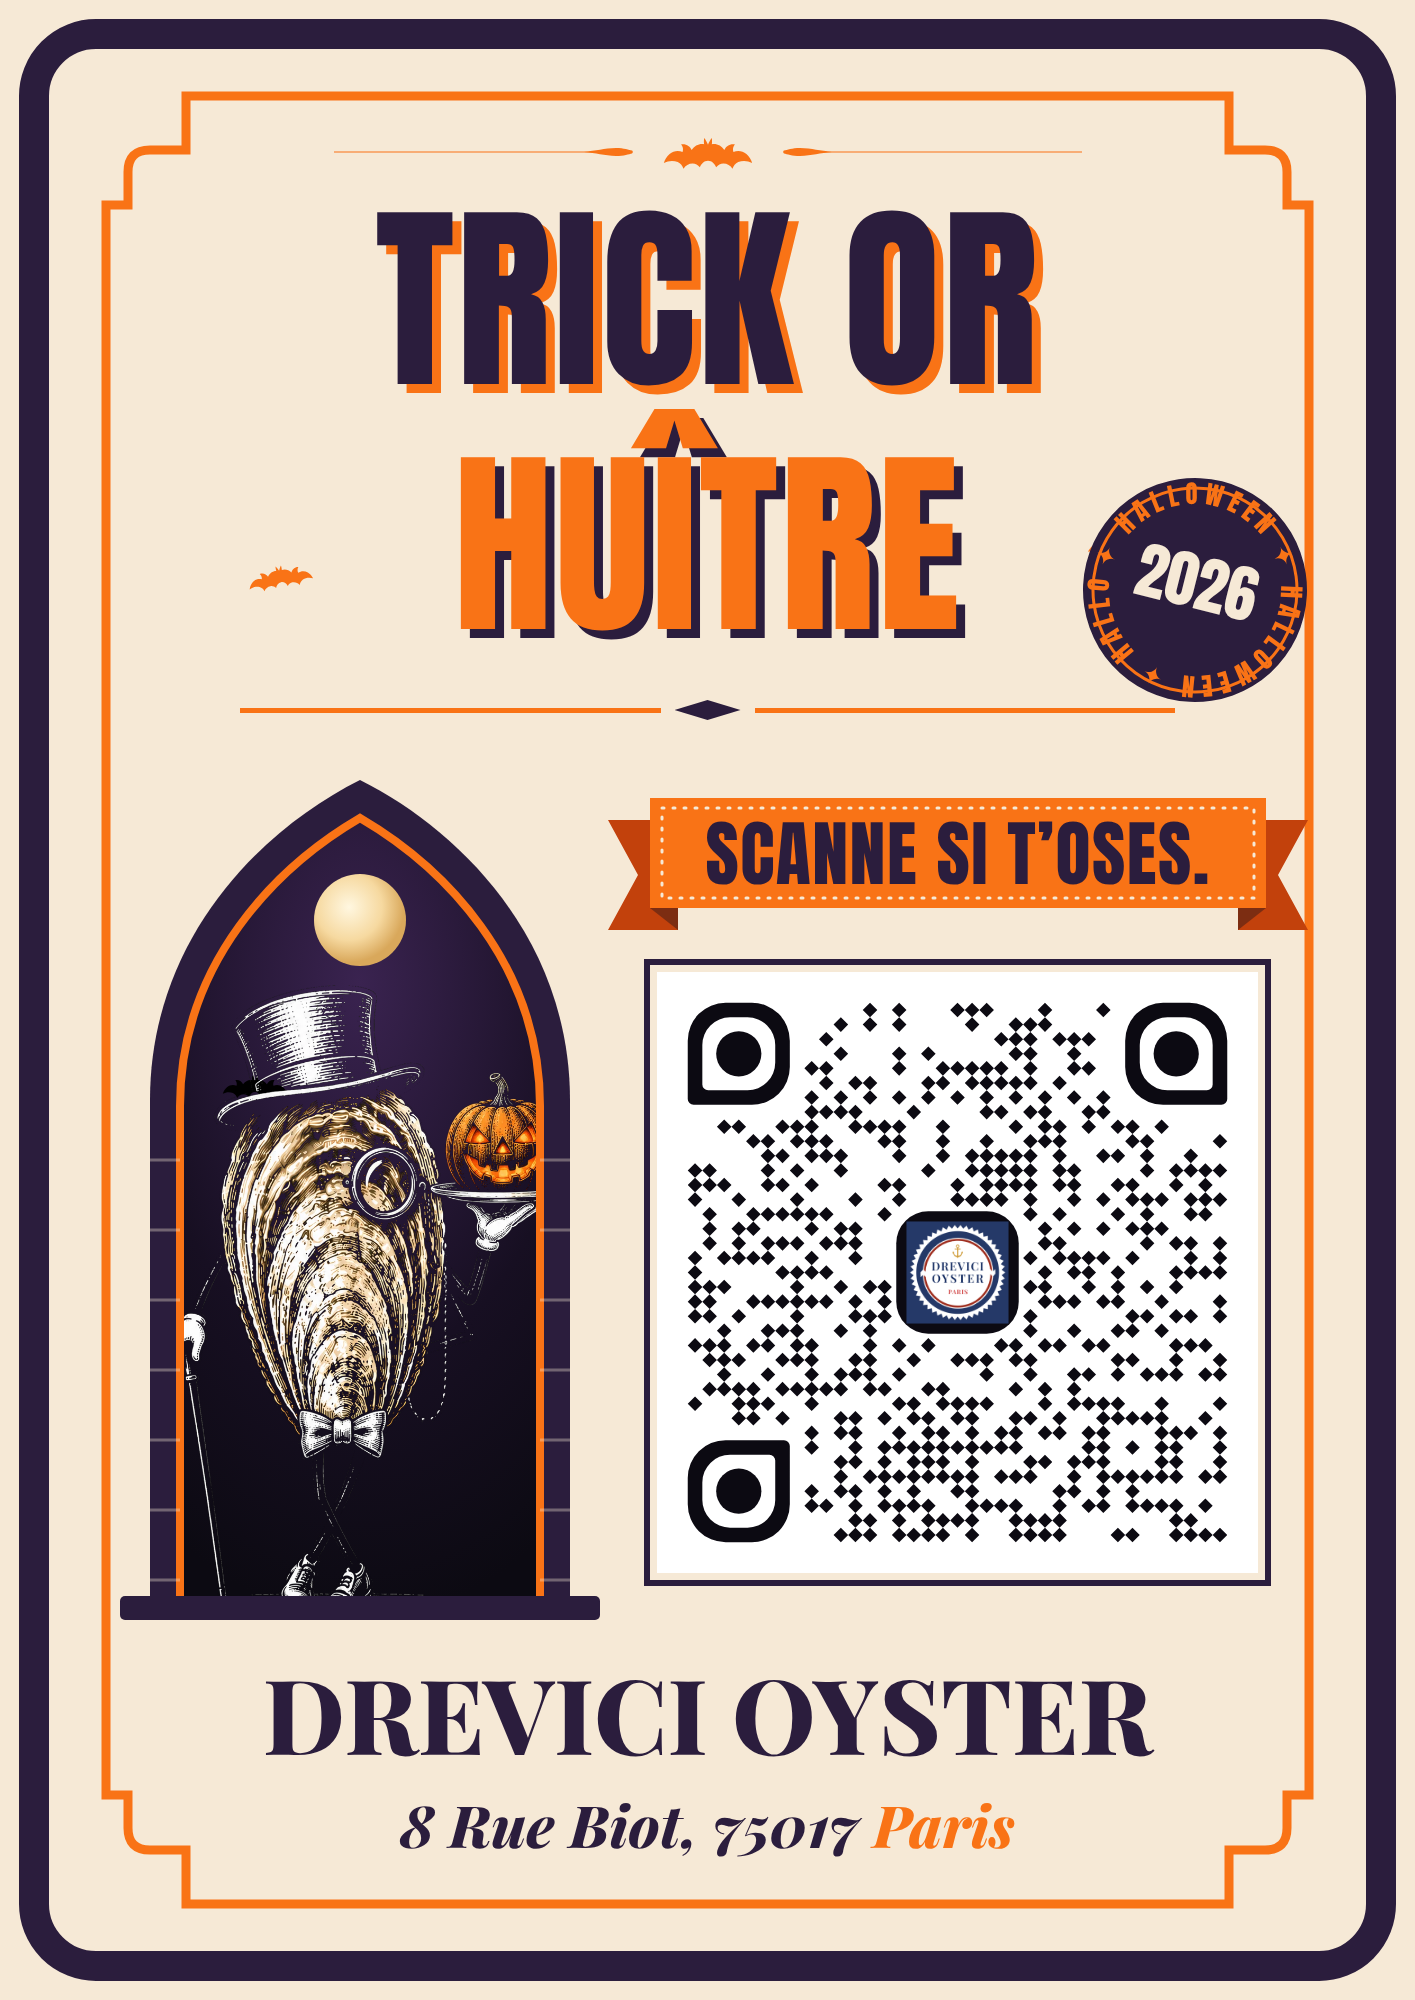
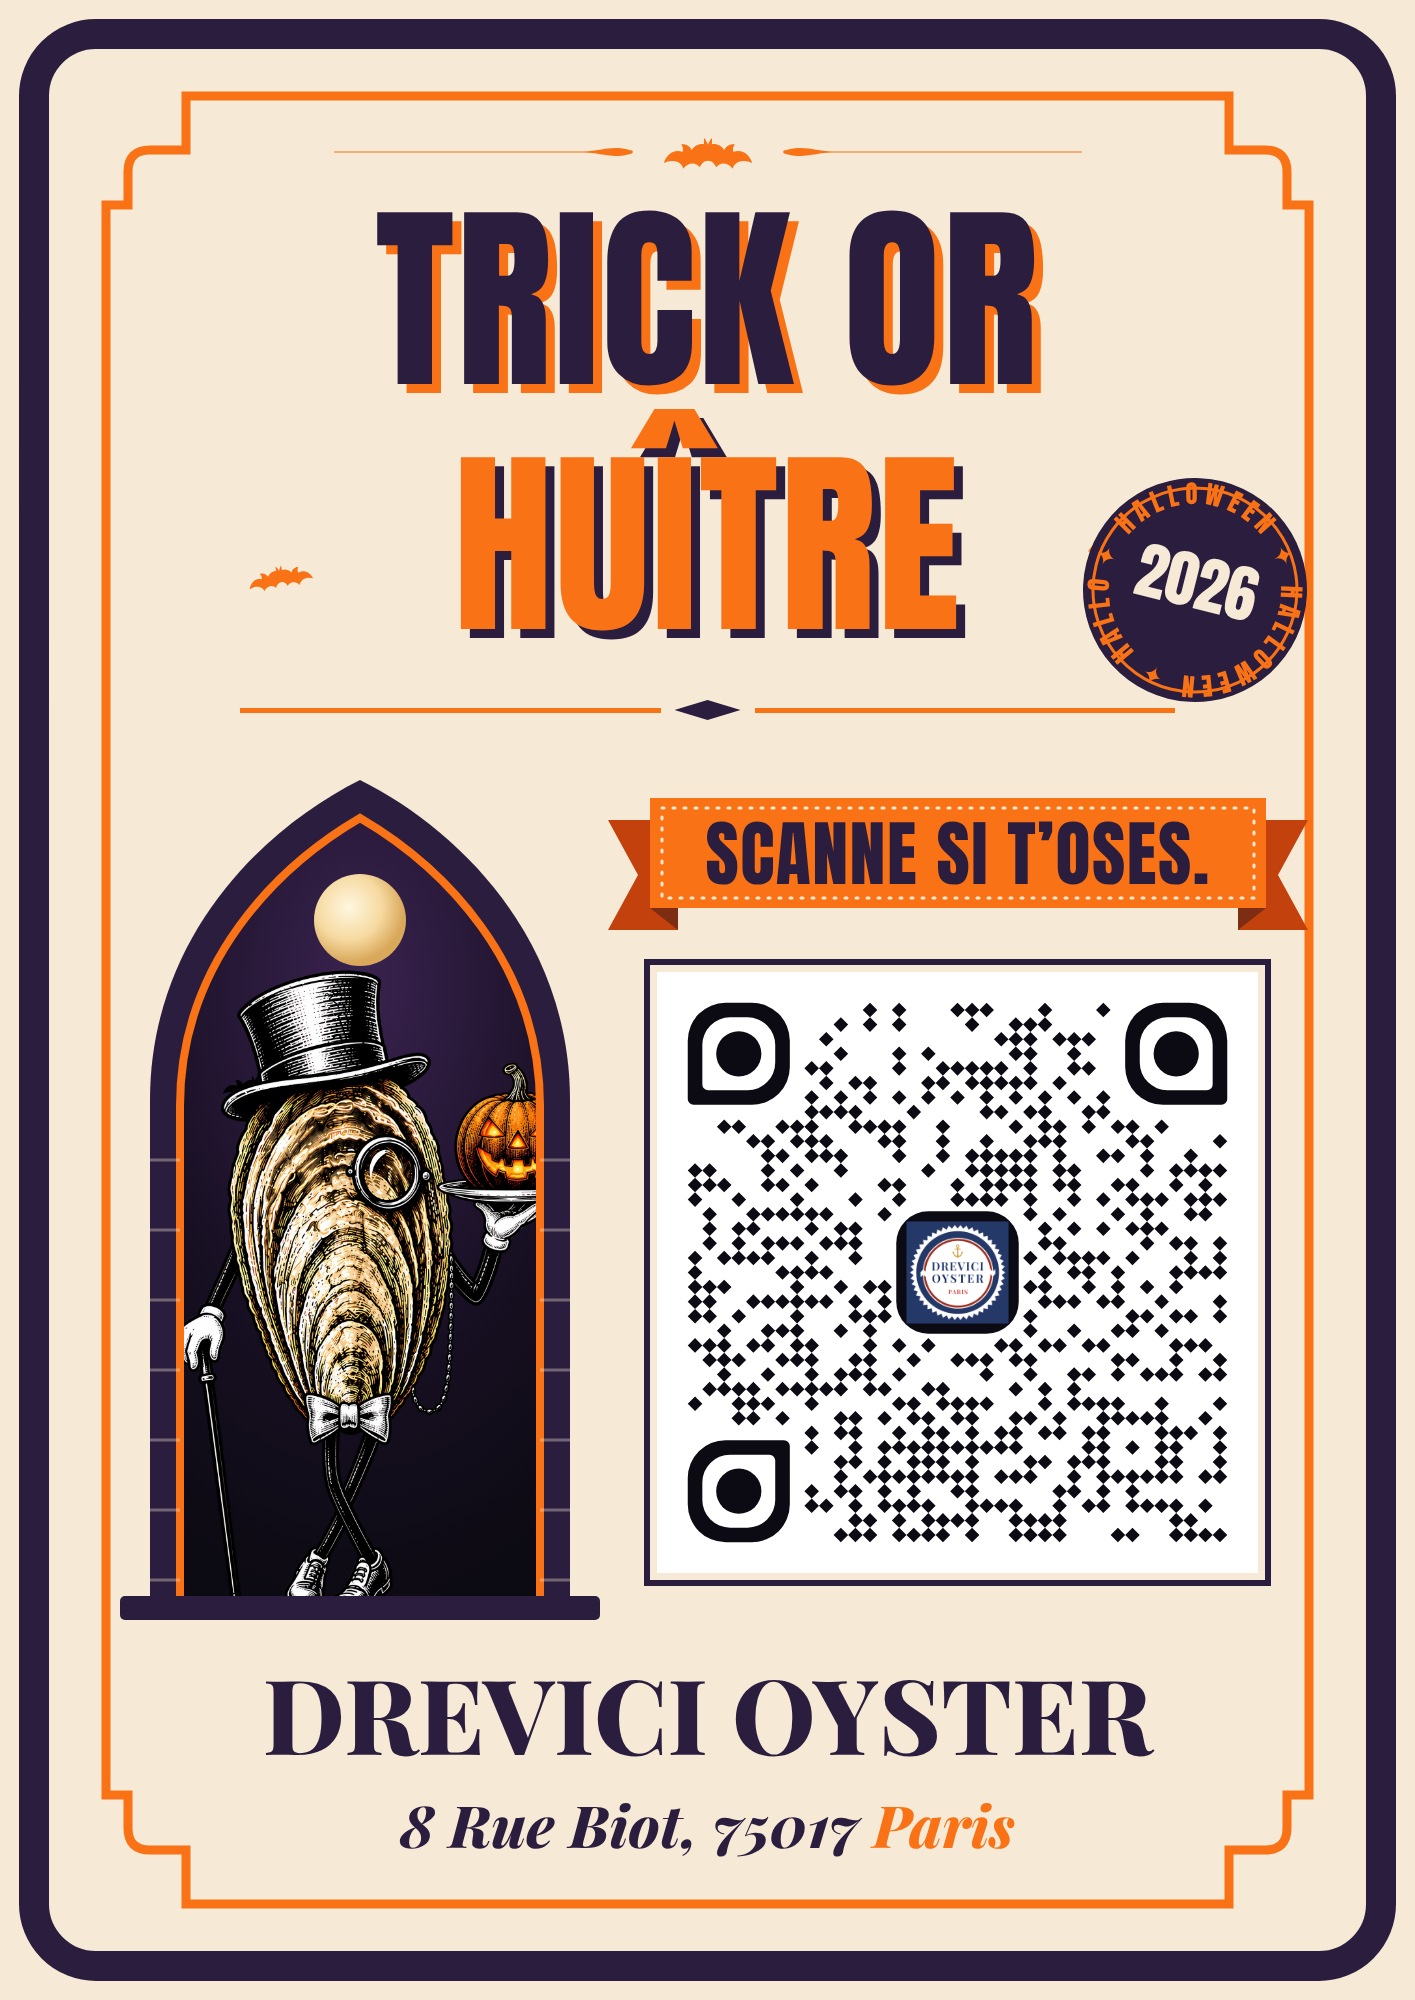
Affiche porte : mascotte HD (fond transparent)
Claude-Session: https://claude.ai/code/session_012ueJSkHMqbZpvX7x5D3Dw2

Changed region(s): [[0.1244, 0.465, 0.4042, 0.806]]

diff --git a/affiches/halloween-2026/affiche-porte-hal-seuil.html b/affiches/halloween-2026/affiche-porte-hal-seuil.html
@@ -25,7 +25,7 @@ h1.l2{top:445px;color:#f97316;text-shadow:9px 9px 0 #2b1d3d}
 <radialGradient id="lune" cx="38%" cy="36%" r="60%"><stop offset="0" stop-color="#fff7e0"/><stop offset=".6" stop-color="#f6d9a0"/><stop offset="1" stop-color="#d9a85b"/></radialGradient></defs>
 <clipPath id="cp"><path d="M70 826V336C70 192 168 96 250 48C332 96 430 192 430 336V826Z"/></clipPath>
 <path d="M40 826V330C40 170 150 60 250 10C350 60 460 170 460 330V826Z" fill="#2b1d3d"/>
-<g clip-path="url(#cp)"><rect width="500" height="850" fill="url(#nuit)"/><circle cx="250" cy="150" r="46" fill="url(#lune)"/><path fill="#000" d="M100 30c-4-10-8-14-8-14s-1 8 0 13c-10-2-20 3-26 12-3-8-12-14-22-12 4 5 5 11 3 16-8-4-19-3-27 4-6 5-10 12-12 19 9-5 20-6 29-2 6 3 10 8 12 14 4-7 11-11 19-11 6 0 11 3 15 8 3-8 9-14 17-14s14 6 17 14c4-5 9-8 15-8 8 0 15 4 19 11 2-6 6-11 12-14 9-4 20-3 29 2-2-7-6-14-12-19-8-7-19-8-27-4-2-5-1-11 3-16-10-2-19 4-22 12-6-9-16-14-26-12 1-5 0-13 0-13s-4 4-8 14z" transform="translate(110 300) scale(.35)"/><image href="mascotte.webp" x="40" y="185" width="440" height="635" preserveAspectRatio="xMidYMax meet"/></g>
+<g clip-path="url(#cp)"><rect width="500" height="850" fill="url(#nuit)"/><circle cx="250" cy="150" r="46" fill="url(#lune)"/><path fill="#000" d="M100 30c-4-10-8-14-8-14s-1 8 0 13c-10-2-20 3-26 12-3-8-12-14-22-12 4 5 5 11 3 16-8-4-19-3-27 4-6 5-10 12-12 19 9-5 20-6 29-2 6 3 10 8 12 14 4-7 11-11 19-11 6 0 11 3 15 8 3-8 9-14 17-14s14 6 17 14c4-5 9-8 15-8 8 0 15 4 19 11 2-6 6-11 12-14 9-4 20-3 29 2-2-7-6-14-12-19-8-7-19-8-27-4-2-5-1-11 3-16-10-2-19 4-22 12-6-9-16-14-26-12 1-5 0-13 0-13s-4 4-8 14z" transform="translate(110 300) scale(.35)"/><image href="mascotte.webp" x="18" y="155" width="470" height="665" preserveAspectRatio="xMidYMax meet"/></g>
 <path d="M70 826V336C70 192 168 96 250 48C332 96 430 192 430 336V826" fill="none" stroke="#f97316" stroke-width="8" stroke-linecap="square"/>
 <g stroke="#f6e9d6" stroke-width="3" opacity=".35"><path d="M40 390H70M430 390H460"/><path d="M40 460H70M430 460H460"/><path d="M40 530H70M430 530H460"/><path d="M40 600H70M430 600H460"/><path d="M40 670H70M430 670H460"/><path d="M40 740H70M430 740H460"/><path d="M40 810H70M430 810H460"/></g>
 <rect x="10" y="796" width="480" height="54" rx="5" fill="#2b1d3d"/><text x="250" y="824.0" text-anchor="middle" dominant-baseline="central" font-family="Anton, Impact, sans-serif" font-size="38" letter-spacing="8" fill="#f97316">HALLOWEEN 2026</text></svg>

diff --git a/affiches/halloween-2026/affiche-creme-porte.html b/affiches/halloween-2026/affiche-creme-porte.html
@@ -25,7 +25,7 @@ h1.l2{top:445px;color:#f97316;text-shadow:9px 9px 0 #2b1d3d}
 <radialGradient id="lune" cx="38%" cy="36%" r="60%"><stop offset="0" stop-color="#fff7e0"/><stop offset=".6" stop-color="#f6d9a0"/><stop offset="1" stop-color="#d9a85b"/></radialGradient></defs>
 <clipPath id="cp"><path d="M70 826V336C70 192 168 96 250 48C332 96 430 192 430 336V826Z"/></clipPath>
 <path d="M40 826V330C40 170 150 60 250 10C350 60 460 170 460 330V826Z" fill="#2b1d3d"/>
-<g clip-path="url(#cp)"><rect width="500" height="850" fill="url(#nuit)"/><circle cx="250" cy="150" r="46" fill="url(#lune)"/><path fill="#000" d="M100 30c-4-10-8-14-8-14s-1 8 0 13c-10-2-20 3-26 12-3-8-12-14-22-12 4 5 5 11 3 16-8-4-19-3-27 4-6 5-10 12-12 19 9-5 20-6 29-2 6 3 10 8 12 14 4-7 11-11 19-11 6 0 11 3 15 8 3-8 9-14 17-14s14 6 17 14c4-5 9-8 15-8 8 0 15 4 19 11 2-6 6-11 12-14 9-4 20-3 29 2-2-7-6-14-12-19-8-7-19-8-27-4-2-5-1-11 3-16-10-2-19 4-22 12-6-9-16-14-26-12 1-5 0-13 0-13s-4 4-8 14z" transform="translate(110 300) scale(.35)"/><image href="mascotte.webp" x="40" y="215" width="440" height="635" preserveAspectRatio="xMidYMax meet"/></g>
+<g clip-path="url(#cp)"><rect width="500" height="850" fill="url(#nuit)"/><circle cx="250" cy="150" r="46" fill="url(#lune)"/><path fill="#000" d="M100 30c-4-10-8-14-8-14s-1 8 0 13c-10-2-20 3-26 12-3-8-12-14-22-12 4 5 5 11 3 16-8-4-19-3-27 4-6 5-10 12-12 19 9-5 20-6 29-2 6 3 10 8 12 14 4-7 11-11 19-11 6 0 11 3 15 8 3-8 9-14 17-14s14 6 17 14c4-5 9-8 15-8 8 0 15 4 19 11 2-6 6-11 12-14 9-4 20-3 29 2-2-7-6-14-12-19-8-7-19-8-27-4-2-5-1-11 3-16-10-2-19 4-22 12-6-9-16-14-26-12 1-5 0-13 0-13s-4 4-8 14z" transform="translate(110 300) scale(.35)"/><image href="mascotte.webp" x="18" y="185" width="470" height="665" preserveAspectRatio="xMidYMax meet"/></g>
 <path d="M70 826V336C70 192 168 96 250 48C332 96 430 192 430 336V826" fill="none" stroke="#f97316" stroke-width="8" stroke-linecap="square"/>
 <g stroke="#f6e9d6" stroke-width="3" opacity=".35"><path d="M40 390H70M430 390H460"/><path d="M40 460H70M430 460H460"/><path d="M40 530H70M430 530H460"/><path d="M40 600H70M430 600H460"/><path d="M40 670H70M430 670H460"/><path d="M40 740H70M430 740H460"/><path d="M40 810H70M430 810H460"/></g>
 <rect x="10" y="826" width="480" height="24" rx="5" fill="#2b1d3d"/></svg>

diff --git a/affiches/halloween-2026/affiche-porte-hal-bandeau.html b/affiches/halloween-2026/affiche-porte-hal-bandeau.html
@@ -25,7 +25,7 @@ h1.l2{top:445px;color:#f97316;text-shadow:9px 9px 0 #2b1d3d}
 <radialGradient id="lune" cx="38%" cy="36%" r="60%"><stop offset="0" stop-color="#fff7e0"/><stop offset=".6" stop-color="#f6d9a0"/><stop offset="1" stop-color="#d9a85b"/></radialGradient></defs>
 <clipPath id="cp"><path d="M70 826V336C70 192 168 96 250 48C332 96 430 192 430 336V826Z"/></clipPath>
 <path d="M40 826V330C40 170 150 60 250 10C350 60 460 170 460 330V826Z" fill="#2b1d3d"/>
-<g clip-path="url(#cp)"><rect width="500" height="850" fill="url(#nuit)"/><circle cx="250" cy="150" r="46" fill="url(#lune)"/><path fill="#000" d="M100 30c-4-10-8-14-8-14s-1 8 0 13c-10-2-20 3-26 12-3-8-12-14-22-12 4 5 5 11 3 16-8-4-19-3-27 4-6 5-10 12-12 19 9-5 20-6 29-2 6 3 10 8 12 14 4-7 11-11 19-11 6 0 11 3 15 8 3-8 9-14 17-14s14 6 17 14c4-5 9-8 15-8 8 0 15 4 19 11 2-6 6-11 12-14 9-4 20-3 29 2-2-7-6-14-12-19-8-7-19-8-27-4-2-5-1-11 3-16-10-2-19 4-22 12-6-9-16-14-26-12 1-5 0-13 0-13s-4 4-8 14z" transform="translate(110 300) scale(.35)"/><image href="mascotte.webp" x="40" y="215" width="440" height="635" preserveAspectRatio="xMidYMax meet"/></g>
+<g clip-path="url(#cp)"><rect width="500" height="850" fill="url(#nuit)"/><circle cx="250" cy="150" r="46" fill="url(#lune)"/><path fill="#000" d="M100 30c-4-10-8-14-8-14s-1 8 0 13c-10-2-20 3-26 12-3-8-12-14-22-12 4 5 5 11 3 16-8-4-19-3-27 4-6 5-10 12-12 19 9-5 20-6 29-2 6 3 10 8 12 14 4-7 11-11 19-11 6 0 11 3 15 8 3-8 9-14 17-14s14 6 17 14c4-5 9-8 15-8 8 0 15 4 19 11 2-6 6-11 12-14 9-4 20-3 29 2-2-7-6-14-12-19-8-7-19-8-27-4-2-5-1-11 3-16-10-2-19 4-22 12-6-9-16-14-26-12 1-5 0-13 0-13s-4 4-8 14z" transform="translate(110 300) scale(.35)"/><image href="mascotte.webp" x="18" y="185" width="470" height="665" preserveAspectRatio="xMidYMax meet"/></g>
 <path d="M70 826V336C70 192 168 96 250 48C332 96 430 192 430 336V826" fill="none" stroke="#f97316" stroke-width="8" stroke-linecap="square"/>
 <g stroke="#f6e9d6" stroke-width="3" opacity=".35"><path d="M40 390H70M430 390H460"/><path d="M40 460H70M430 460H460"/><path d="M40 530H70M430 530H460"/><path d="M40 600H70M430 600H460"/><path d="M40 670H70M430 670H460"/><path d="M40 740H70M430 740H460"/><path d="M40 810H70M430 810H460"/></g>
 <rect x="10" y="826" width="480" height="24" rx="5" fill="#2b1d3d"/></svg>

diff --git a/affiches/halloween-2026/affiche-porte-hal-tampon.html b/affiches/halloween-2026/affiche-porte-hal-tampon.html
@@ -29,7 +29,7 @@ h1.l2{top:445px;color:#f97316;text-shadow:9px 9px 0 #2b1d3d}
 <radialGradient id="lune" cx="38%" cy="36%" r="60%"><stop offset="0" stop-color="#fff7e0"/><stop offset=".6" stop-color="#f6d9a0"/><stop offset="1" stop-color="#d9a85b"/></radialGradient></defs>
 <clipPath id="cp"><path d="M70 826V336C70 192 168 96 250 48C332 96 430 192 430 336V826Z"/></clipPath>
 <path d="M40 826V330C40 170 150 60 250 10C350 60 460 170 460 330V826Z" fill="#2b1d3d"/>
-<g clip-path="url(#cp)"><rect width="500" height="850" fill="url(#nuit)"/><circle cx="250" cy="150" r="46" fill="url(#lune)"/><path fill="#000" d="M100 30c-4-10-8-14-8-14s-1 8 0 13c-10-2-20 3-26 12-3-8-12-14-22-12 4 5 5 11 3 16-8-4-19-3-27 4-6 5-10 12-12 19 9-5 20-6 29-2 6 3 10 8 12 14 4-7 11-11 19-11 6 0 11 3 15 8 3-8 9-14 17-14s14 6 17 14c4-5 9-8 15-8 8 0 15 4 19 11 2-6 6-11 12-14 9-4 20-3 29 2-2-7-6-14-12-19-8-7-19-8-27-4-2-5-1-11 3-16-10-2-19 4-22 12-6-9-16-14-26-12 1-5 0-13 0-13s-4 4-8 14z" transform="translate(110 300) scale(.35)"/><image href="mascotte.webp" x="40" y="215" width="440" height="635" preserveAspectRatio="xMidYMax meet"/></g>
+<g clip-path="url(#cp)"><rect width="500" height="850" fill="url(#nuit)"/><circle cx="250" cy="150" r="46" fill="url(#lune)"/><path fill="#000" d="M100 30c-4-10-8-14-8-14s-1 8 0 13c-10-2-20 3-26 12-3-8-12-14-22-12 4 5 5 11 3 16-8-4-19-3-27 4-6 5-10 12-12 19 9-5 20-6 29-2 6 3 10 8 12 14 4-7 11-11 19-11 6 0 11 3 15 8 3-8 9-14 17-14s14 6 17 14c4-5 9-8 15-8 8 0 15 4 19 11 2-6 6-11 12-14 9-4 20-3 29 2-2-7-6-14-12-19-8-7-19-8-27-4-2-5-1-11 3-16-10-2-19 4-22 12-6-9-16-14-26-12 1-5 0-13 0-13s-4 4-8 14z" transform="translate(110 300) scale(.35)"/><image href="mascotte.webp" x="18" y="185" width="470" height="665" preserveAspectRatio="xMidYMax meet"/></g>
 <path d="M70 826V336C70 192 168 96 250 48C332 96 430 192 430 336V826" fill="none" stroke="#f97316" stroke-width="8" stroke-linecap="square"/>
 <g stroke="#f6e9d6" stroke-width="3" opacity=".35"><path d="M40 390H70M430 390H460"/><path d="M40 460H70M430 460H460"/><path d="M40 530H70M430 530H460"/><path d="M40 600H70M430 600H460"/><path d="M40 670H70M430 670H460"/><path d="M40 740H70M430 740H460"/><path d="M40 810H70M430 810H460"/></g>
 <rect x="10" y="826" width="480" height="24" rx="5" fill="#2b1d3d"/></svg>

diff --git a/affiches/halloween-2026/gen-creme.py b/affiches/halloween-2026/gen-creme.py
@@ -18,7 +18,7 @@ def porte_svg(masc=True, seuil='', standalone=False):
     step = f'<rect x="10" y="{850-sh}" width="480" height="{sh}" rx="5" fill="{INK}"/>'
     if seuil:
         step += f'<text x="250" y="{850-sh/2+1}" text-anchor="middle" dominant-baseline="central" font-family="Anton, Impact, sans-serif" font-size="38" letter-spacing="8" fill="{OR}">{seuil}</text>'
-    m = f'<image href="mascotte.webp" x="40" y="{215 - (sh-24)}" width="440" height="635" preserveAspectRatio="xMidYMax meet"/>' if masc else ''
+    m = f'<image href="mascotte.webp" x="18" y="{185 - (sh-24)}" width="470" height="665" preserveAspectRatio="xMidYMax meet"/>' if masc else ''
     batmini = f'<path fill="#000" d="{BAT}" transform="translate(110 300) scale(.35)"/>'
     head = '<svg xmlns="http://www.w3.org/2000/svg" viewBox="0 0 500 850" width="500" height="850">' if standalone else '<svg viewBox="0 0 500 850" style="position:absolute;left:110px;top:770px;width:500px;height:850px;overflow:visible">'
     return f'''{head}{DEFS}
